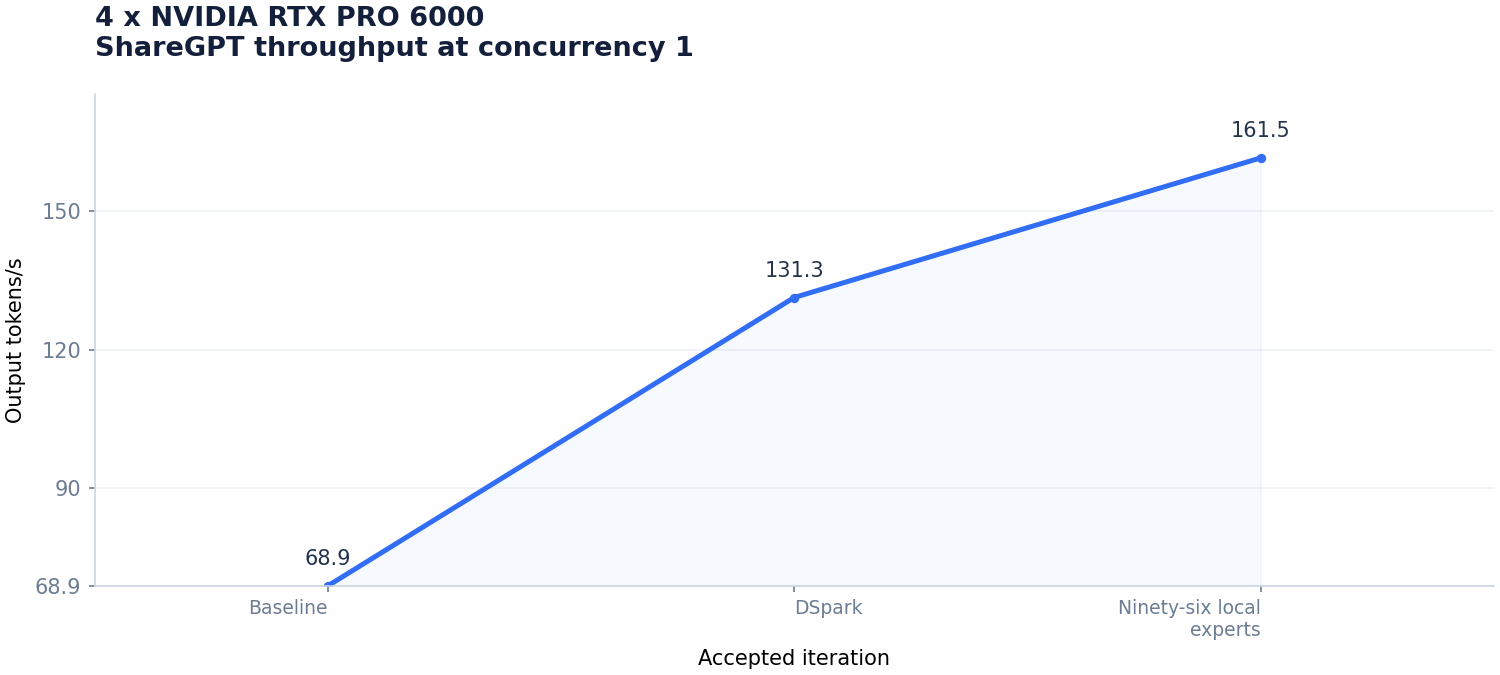
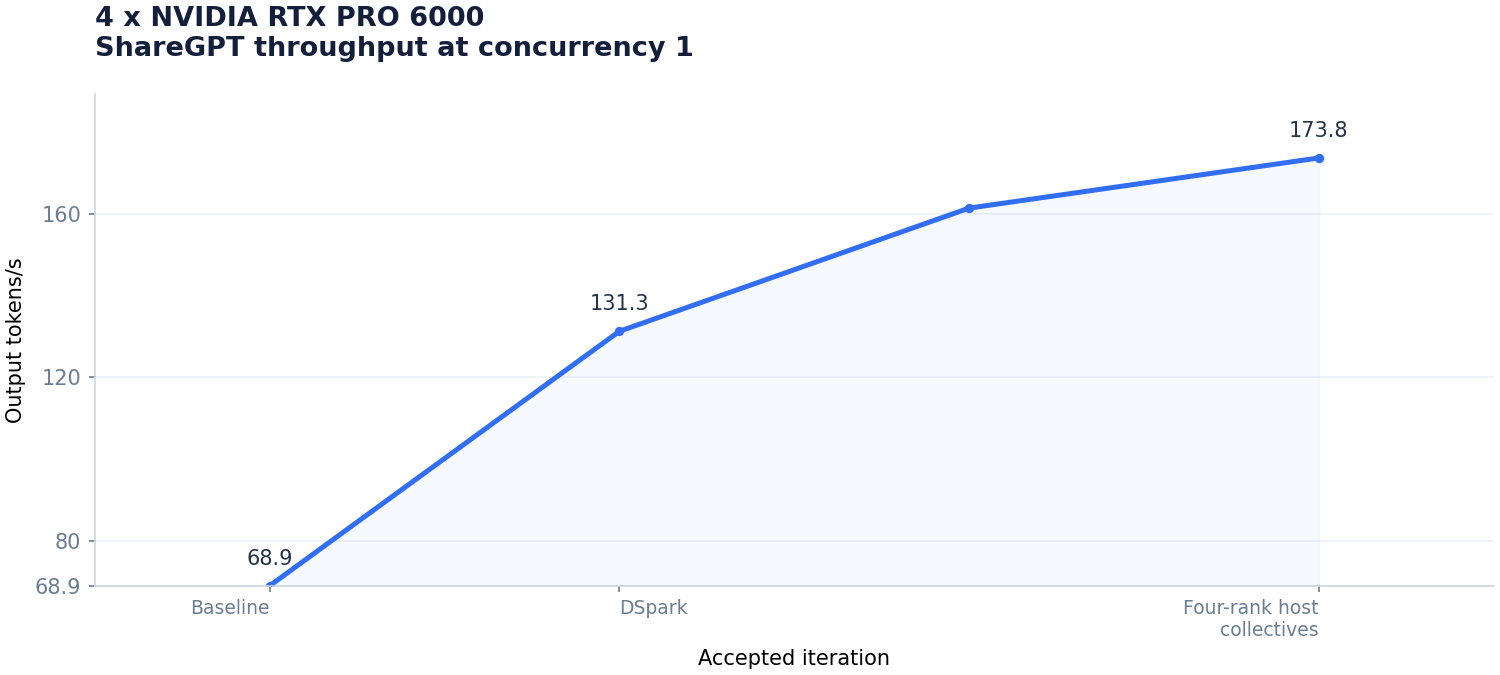
Accelerate four-rank reductions

diff --git a/4-nvidia-rtx-pro-6000/CHANGELOG.md b/4-nvidia-rtx-pro-6000/CHANGELOG.md
@@ -4,9 +4,9 @@ The patch is cumulative against `vllm/vllm-openai:v0.32.0`; every working milest
 
 FlashInfer 0.7.1 replaces the bundled 0.7.0.post1 for runtime page-size support, and both the sm120 compatibility patch and `--block-size 64` are required.
 
-## 2. Ninety-six local experts
+## 3. Four-rank host collectives
 
-- Extend the small-batch expert kernels to 96 local experts because TP4 previously fell back to DeepGEMM's 128-row padding.
+- Move small four-rank reductions through mapped host memory to reduce communication latency on PCIe.
 
 Requirements, on a fresh vLLM image:
 
@@ -41,14 +41,14 @@ vllm serve deepseek-ai/DeepSeek-V4.1-Flash-1017 \
 
 | Concurrency | Prompts | Output t/s | p95 TTFT (ms) | p95 TPOT (ms) |
 |---:|---:|---:|---:|---:|
-| 1 | 128 | 161.5 | 134.2 | 7.58 |
-| 4 | 128 | 398.5 | 127.7 | 12.47 |
-| 8 | 128 | 582.3 | 227.3 | 15.83 |
-| 16 | 128 | 798.6 | 284.7 | 23.55 |
-| 32 | 128 | 1126.5 | 498.2 | 32.29 |
-| 64 | 128 | 1354.5 | 876.9 | 54.17 |
-| 128 | 256 | 1850.7 | 1527.0 | 79.03 |
-| 256 | 512 | 2506.8 | 2850.4 | 141.25 |
+| 1 | 128 | 173.8 | 131.1 | 6.94 |
+| 4 | 128 | 415.3 | 120.2 | 11.99 |
+| 8 | 128 | 585.1 | 222.2 | 15.97 |
+| 16 | 128 | 795.0 | 284.3 | 23.20 |
+| 32 | 128 | 1123.8 | 422.6 | 31.43 |
+| 64 | 128 | 1360.5 | 899.4 | 50.91 |
+| 128 | 256 | 1868.0 | 1579.8 | 81.32 |
+| 256 | 512 | 2524.4 | 2957.3 | 138.39 |
 
 ## Accepted progress
 
@@ -57,3 +57,4 @@ vllm serve deepseek-ai/DeepSeek-V4.1-Flash-1017 \
 | 0 | Four-GPU baseline | 68.9 | [`98e3fb6`](https://github.com/alvarobartt/DeepSeek-V4.1-Flash-RTX-PRO-6000/tree/98e3fb632bb37dea066d2f7d9cb6f1b4a436cb4d) |
 | 1 | DSpark decoding | 131.3 | [`dee02d3`](https://github.com/alvarobartt/DeepSeek-V4.1-Flash-RTX-PRO-6000/tree/dee02d3567a50684bf4abb462d28390b3c3c9460) |
 | 2 | Ninety-six local experts | 161.5 | [`26ae9ab`](https://github.com/alvarobartt/DeepSeek-V4.1-Flash-RTX-PRO-6000/tree/26ae9abd68d901a24ec36c582ae2c354a34eb81c) |
+| 3 | Four-rank host collectives | 173.8 | This revision |

diff --git a/README.md b/README.md
@@ -34,14 +34,14 @@ See the detailed changelog in [`8-nvidia-rtx-pro-6000/CHANGELOG.md`](8-nvidia-rt
 
 | Concurrency | Baseline t/s [^4gpu-baseline] | Baseline + DSpark t/s | Current t/s |
 |---:|---:|---:|---:|
-| 1 | 68.9 | 131.3 (+90.6%) | **161.5 (+23.0%)** |
-| 4 | 216.8 | 305.4 (+40.9%) | **398.5 (+30.5%)** |
-| 8 | 317.3 | 450.0 (+41.8%) | **582.3 (+29.4%)** |
-| 16 | 425.8 | 646.7 (+51.9%) | **798.6 (+23.5%)** |
-| 32 | 553.8 | 929.3 (+67.8%) | **1126.5 (+21.2%)** |
-| 64 | 735.3 | 1216.4 (+65.4%) | **1354.5 (+11.4%)** |
-| 128 | 1147.5 | 1779.2 (+55.1%) | **1850.7 (+4.0%)** |
-| 256 | 1683.6 | 2090.1 (+24.1%) | **2506.8 (+19.9%)** |
+| 1 | 68.9 | 131.3 (+90.6%) | **173.8 (+32.4%)** |
+| 4 | 216.8 | 305.4 (+40.9%) | **415.3 (+36.0%)** |
+| 8 | 317.3 | 450.0 (+41.8%) | **585.1 (+30.0%)** |
+| 16 | 425.8 | 646.7 (+51.9%) | **795.0 (+22.9%)** |
+| 32 | 553.8 | 929.3 (+67.8%) | **1123.8 (+20.9%)** |
+| 64 | 735.3 | 1216.4 (+65.4%) | **1360.5 (+11.8%)** |
+| 128 | 1147.5 | 1779.2 (+55.1%) | **1868.0 (+5.0%)** |
+| 256 | 1683.6 | 2090.1 (+24.1%) | **2524.4 (+20.8%)** |
 
 ![Accepted ShareGPT c1 throughput](4-nvidia-rtx-pro-6000/throughput.png)
 

diff --git a/8-nvidia-rtx-pro-6000/CHANGELOG.md b/8-nvidia-rtx-pro-6000/CHANGELOG.md
@@ -71,4 +71,4 @@ vllm serve deepseek-ai/DeepSeek-V4.1-Flash-1017 \
 | 16 | Sharded draft sampling | 211.3 | [`e36008c`](https://github.com/alvarobartt/DeepSeek-V4.1-Flash-RTX-PRO-6000/tree/e36008c9f6a7cd5c1cb9f55e8082ede7341164e5) |
 | 17 | Medium grouped experts | 211.7 | [`ba418b9`](https://github.com/alvarobartt/DeepSeek-V4.1-Flash-RTX-PRO-6000/tree/ba418b932c779f5224cc2657e52a769112cf0917) |
 | 18 | Cold-start guards | 209.3 | [`62b3bf7`](https://github.com/alvarobartt/DeepSeek-V4.1-Flash-RTX-PRO-6000/tree/62b3bf717ce8447cd20c62b06a2bfbe781b6836d) |
-| 19 | Counter-safe collectives | 211.4 | This revision |
+| 19 | Counter-safe collectives | 211.4 | [`b4be2dd`](https://github.com/alvarobartt/DeepSeek-V4.1-Flash-RTX-PRO-6000/tree/b4be2ddcfaf547f6f042d91aac6a104dfabae3a2) |
